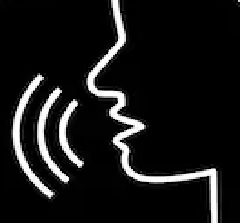
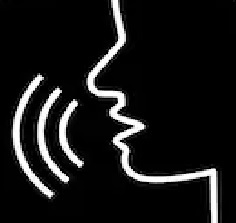
changes

diff --git a/index.html b/index.html
@@ -383,7 +383,7 @@
                             <div class="card__picture card__picture--7" style="background: black;">
                                 &nbsp;
                             </div>
-                            <img src="./img/money1.gif" class="card__svg-icon card__svg-icon-6" alt="" >
+                            <img src="./img/speak.jpg" class="card__svg-icon card__svg-icon-6" alt="" style="padding-top: 10px;" >
                             <div class="card__heading">
                                 <span class="card__heading-span--6">
                                     Speech Synthesizer
